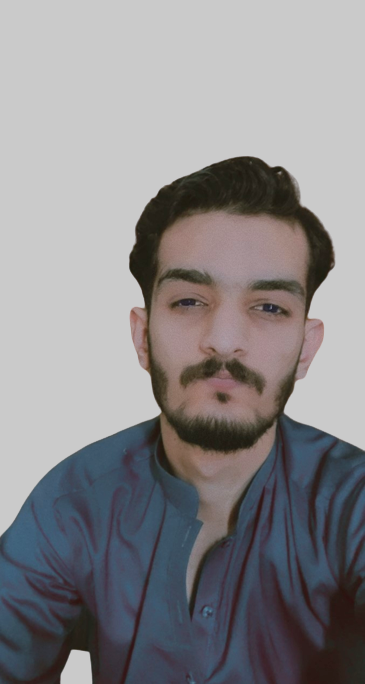
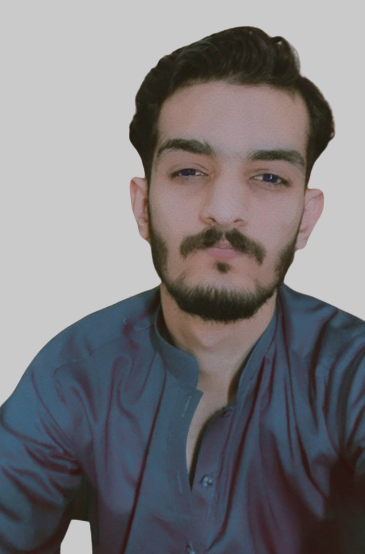
About T7-

diff --git a/src/sections/About.tsx b/src/sections/About.tsx
@@ -40,11 +40,6 @@ function About() {
             to create end-to-end solutions that excel in both form and function.
           </p>
           <p className="about-grid-info-text">
-           My approach is rooted in aligning technical solutions with your business
-           objectives to boost efficiency and ROI. I thrive on problem-solving, 
-           embrace challenges, and value collaborative teamwork
-          </p>
-          <p className="about-grid-info-text">
             Here are a few technologies I&apos;ve been working with recently:
           </p>
           <ul className="about-grid-info-list">

diff --git a/src/scss/sections/_about.scss b/src/scss/sections/_about.scss
@@ -86,8 +86,8 @@
         transition: 0.3s ease-in-out;
         z-index: 1;
         position: absolute;
-        height: 350px;
-        width: 350px;
+        height: 550px;
+        width: 365px;
         background-color: #9d00ff4d;
         border-radius: 0.2rem;
       }
@@ -104,8 +104,8 @@
       }
       &-container {
         position: relative;
-        height: 350px;
-        width: 350px;
+        height: 550px;
+        width: 365px;
         object-fit: cover;
         img {
           z-index: 0;
